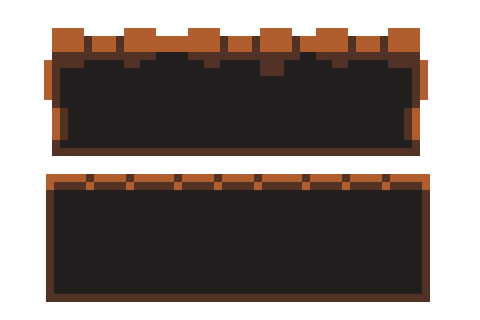
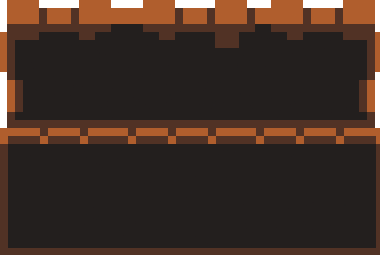
Create the overall layout of the level

diff --git a/SceneManager.cpp b/SceneManager.cpp
@@ -38,7 +38,7 @@ unordered_map<std::string, Tag> tagMap = {
 
 // spritesheet map for converting from string to char
 unordered_map <std::string, const char*> spriteMap = {
-    {"wall.jpg", "wall.jpg"},
+    {"platform.png", "platform.png"},
     {"Giant_Roach.png", "Giant_Roach.png"},
     {"Edgar.png", "Edgar.png"}
 };
@@ -208,6 +208,12 @@ void SceneManager::ParseEntityValues(EntityValues& ev, const json& jsonObject) {
 
                 ev.hasAnimation = component.value().contains("hasAnim")
                     ? component.value()["hasAnim"].get<bool>() : ev.hasAnimation;
+
+                ev.rowIndex = component.value().contains("rowIndex")
+                    ? component.value()["rowIndex"].get<int>() : ev.rowIndex;
+
+                ev.colIndex = component.value().contains("colIndex")
+                    ? component.value()["colIndex"].get<int>() : ev.colIndex;
 
                 break;
 

diff --git a/Renderer.cpp b/Renderer.cpp
@@ -103,8 +103,8 @@ void Renderer::loadImages() {
             {}
         },
         {
-            "wall.jpg",
-            1,
+            "platform.png",
+            2,
             1,
             {}
         },
@@ -221,6 +221,7 @@ GLFWwindow* Renderer::setupGLFW(int *width, int *height) {
     // Make a window with size 800x800 with name of "Chunky Soup"
     // pass in monitor for the 3rd param if we want it to be full screen
     GLFWwindow* window = glfwCreateWindow(*width, *height, "Chunky Soup", NULL, NULL);
+    glfwSetWindowPos(window, (monitorInfo->width - *width) / 2, (monitorInfo->height - *height) / 2);
     //glfwSetWindowPos(window, 0, 0);
     if (window == NULL) {
         std::cout << "Failed to create GLFW window" << std::endl;

diff --git a/main.cpp b/main.cpp
@@ -48,8 +48,8 @@ Clock::time_point prevTime;
 double catchupTime;
 const double MS_PER_FRAME = (1.0 / 60.0) * 1000;
 
-const int VIEW_WIDTH = 30;
-const int VIEW_HEIGHT = 20;
+const int VIEW_WIDTH = 15;
+const int VIEW_HEIGHT = 10;
 
 // gets called once when engine starts
 // put initilization code here

diff --git a/SceneManager.h b/SceneManager.h
@@ -32,6 +32,8 @@ struct EntityValues {
 
     // RenderComponent
     bool hasAnimation = false;
+    float rowIndex = 0;
+    float colIndex = 0;
 
     // AnimationComponent
     bool animIsPlaying = false;
